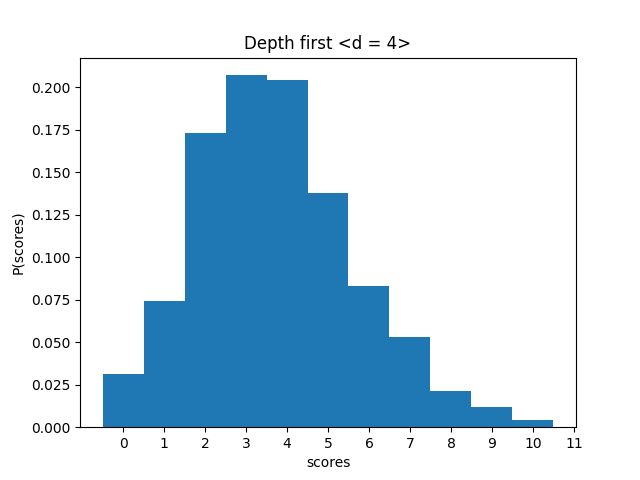
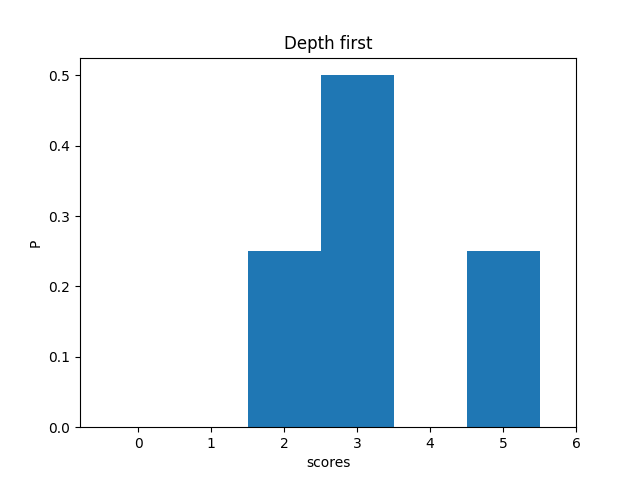
saving best chain

diff --git a/distribution_graph.py b/distribution_graph.py
@@ -1,14 +1,14 @@
-
+import pickle
 import csv
 import pandas as pd 
 from sys import argv, exit
 from code.classes import chain as ch
 from code.visualisation import visualisation as vis
 from code.functions import outputwriter as out
-
-from code.algorithms import greedy_lookahead as greed
+from copy import deepcopy
+from code.algorithms import depth_first as df
 from code.algorithms import Algorithm as alg
-from code.algorithms import algorithm_greedy as algr
+from code.algorithms import greedy_distance as gd
 
 import numpy as np
 import matplotlib.pyplot as plt
@@ -26,19 +26,28 @@ def distribution():
     n = int(argv[2])
 
     # create list for scores
-    score_list = []
+    score_list = [-1]
 
     runs = 0 
+    best_chain = ch.Chain('')
+    
     while runs < n:
         # build protein chain
         chain = ch.Chain(aminocode)
         
-        chain_result = greed.greedy_lookahead(chain)
+        chain_result = df.depth_first(chain)
         
-        score_list.append(int(chain_result.get_score()))
+        score = int(chain_result.get_score())
 
+        m = max(score_list)
+
+        if score >= m:
+            best_chain = deepcopy(chain_result)
+
+        score_list.append(score)
+        
         runs +=1
-
+        
     # # TODO: show max values if to small to see
     # count_score = 0
     # for i in score_list:
@@ -60,6 +69,10 @@ def distribution():
 
     plt.title("Depth first")
 
-    plt.savefig("graph.pdf")
+    plt.savefig("graph.png")
+    plt.close()
+
+    # visualize protein chain
+    vis.visualisation(best_chain)
 
 distribution()

diff --git a/Main.py b/Main.py
@@ -17,7 +17,7 @@ def main():
 
     # build protein chain
     chain = ch.Chain(aminocode)
-    chain_result = algC.greedy_lookahead(chain)
+    chain_result = algC.depth_first(chain)
 
     # visualize protein chain
     vis.visualisation(chain_result)
